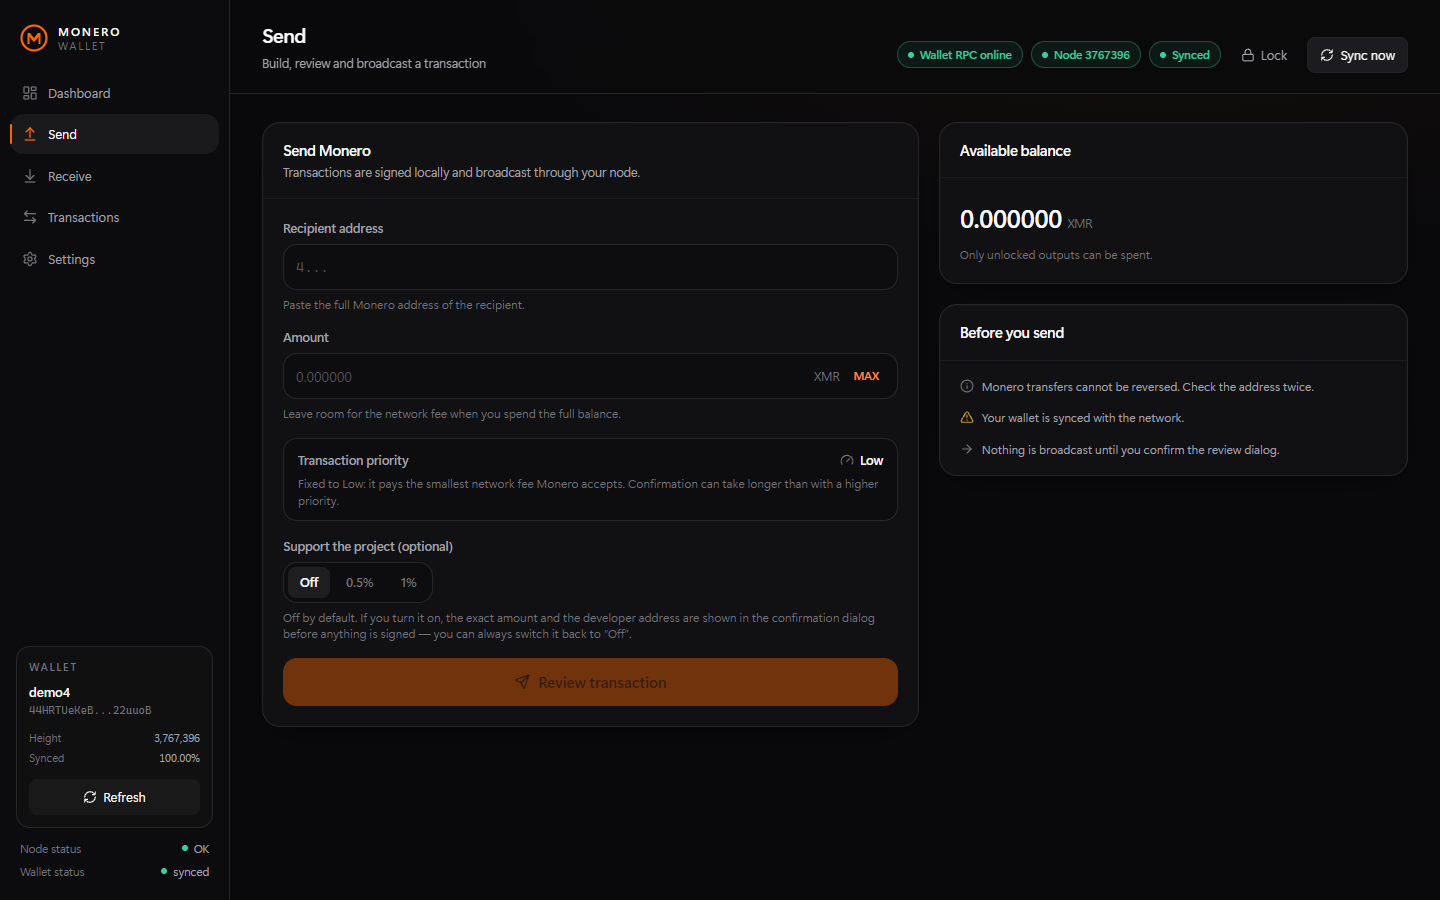
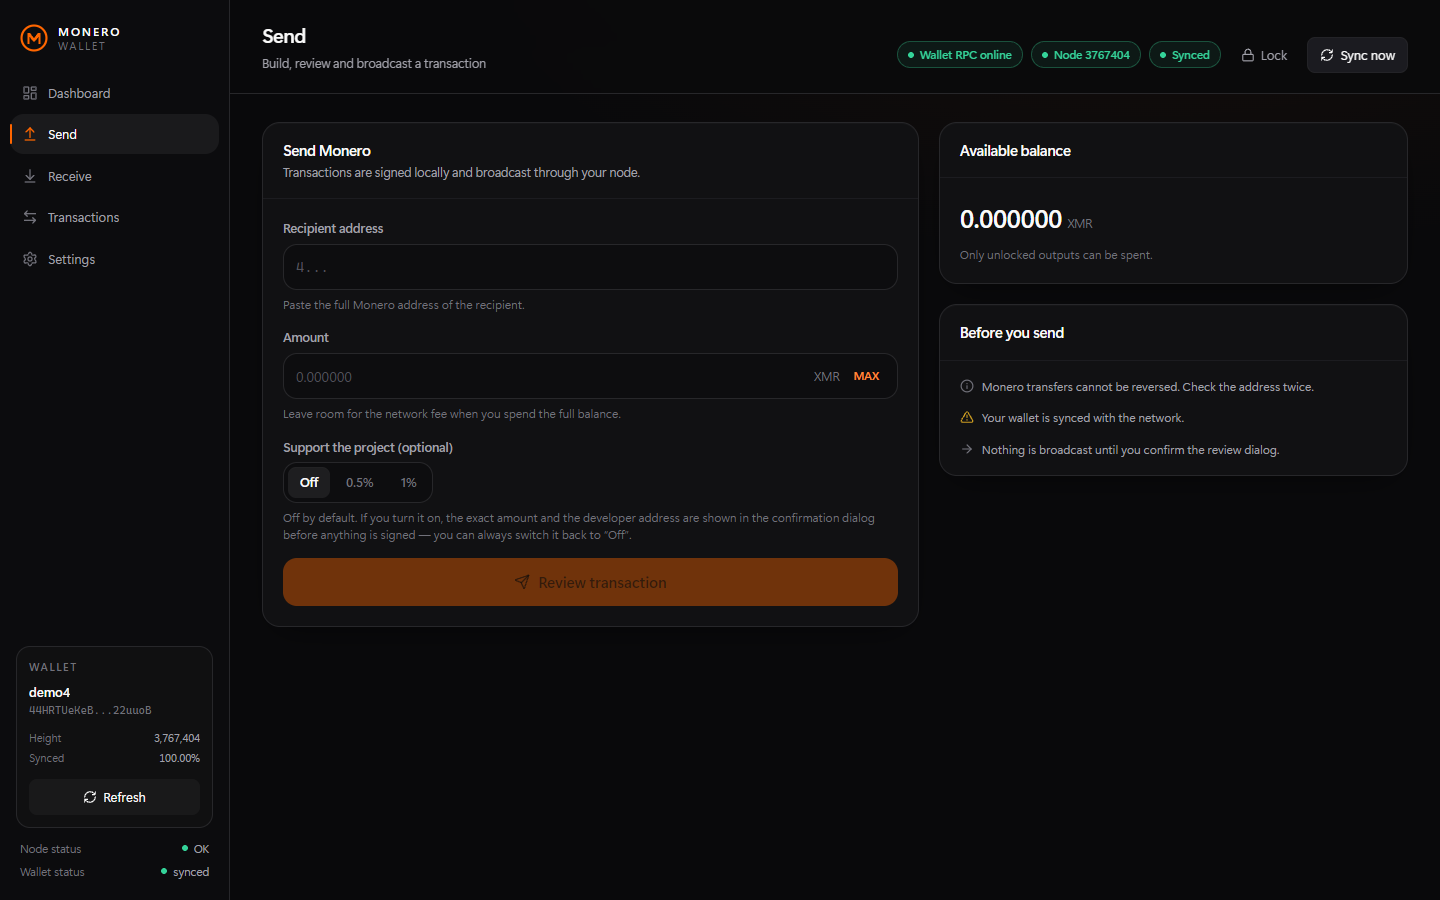
Remove the transaction priority control from the send form

Changed region(s): [[0.1875, 0.4667, 0.625, 0.8089], [0.5938, 0.4978, 0.625, 0.5289]]

diff --git a/frontend/src/pages/Send.tsx b/frontend/src/pages/Send.tsx
@@ -1,4 +1,4 @@
-import { ArrowRight, CheckCircle2, Gauge, Info, Send as SendIcon, TriangleAlert } from 'lucide-react';
+import { ArrowRight, CheckCircle2, Info, Send as SendIcon, TriangleAlert } from 'lucide-react';
 import { useEffect, useState } from 'react';
 
 import { ApiError, api } from '../api/client';
@@ -11,13 +11,12 @@ import type { Route } from '../lib/hashRouter';
 import { useWallet } from '../state/wallet';
 
 /**
- * Network priority is fixed to "Low" (0): the cheapest fee. The selector was
- * removed on purpose - a single predictable value is easier to reason about than
- * four levels whose real cost only shows up after the fee is calculated. The API
- * still accepts 0-3, so integrations can opt into another level.
+ * Network priority is pinned to "Low" (0), the cheapest fee the daemon accepts, and
+ * the send form deliberately shows no control for it: four levels whose real cost
+ * only appears after the fee is calculated are a decision most people cannot judge.
+ * The API still accepts 0-3, so integrations can opt into another level.
  */
 const NETWORK_PRIORITY = 0;
-const PRIORITY_LABEL = 'Low';
 
 /** Optional support for the project: off by default, always shown in the review dialog. */
 const SUPPORT_OPTIONS = [
@@ -205,20 +204,6 @@ export function SendPage({ onNavigate }: { onNavigate: (route: Route) => void })
               hint="Leave room for the network fee when you spend the full balance."
             />
 
-            <div className="rounded-xl border border-line bg-surface-sunken px-3.5 py-3">
-              <div className="flex items-center justify-between gap-3">
-                <span className="text-[12.5px] font-medium text-ink-muted">Transaction priority</span>
-                <span className="inline-flex items-center gap-1.5 text-[12.5px] font-medium text-ink">
-                  <Gauge className="h-3.5 w-3.5 text-ink-dim" />
-                  {PRIORITY_LABEL}
-                </span>
-              </div>
-              <p className="mt-1.5 text-[12px] leading-snug text-ink-dim">
-                Fixed to {PRIORITY_LABEL}: it pays the smallest network fee Monero accepts. Confirmation can take
-                longer than with a higher priority.
-              </p>
-            </div>
-
             <div>
               <p className="mb-1.5 text-[12.5px] font-medium text-ink-muted">Support the project (optional)</p>
               <Segmented
@@ -335,7 +320,6 @@ export function SendPage({ onNavigate }: { onNavigate: (route: Route) => void })
                 />
               ) : null}
               <Recap label="Total" value={prepared.totalAtomic ? `${formatXmr(prepared.totalAtomic)} XMR` : '—'} emphasis />
-              <Recap label="Priority" value={PRIORITY_LABEL} />
             </div>
             {supportPercent > 0 && !prepared.support.enabled ? (
               <Alert tone="info">

diff --git a/README.ru.md b/README.ru.md
@@ -38,8 +38,8 @@
   блокировки, payment id и деталями транзакции.
 - **Двухфазная отправка** — транзакция сначала строится и подписывается локально (`do_not_relay`), вы видите
   **точную комиссию**, и только после подтверждения она рассылается (`relay_tx`).
-- **Фиксированный приоритет сети Low** — самый дешёвый вариант комиссии, который принимает Monero; выбора
-  приоритета в интерфейсе нет, чтобы не гадать, сколько он стоит.
+- **Никакого выбора приоритета** — все транзакции уходят с уровнем **Low**, самой дешёвой комиссией, которую
+  принимает Monero; в интерфейсе нет ни переключателя, ни подписи, чтобы не гадать, сколько стоит уровень.
 - **Субадреса** — создание с метками, переключение, копирование и QR-код для любого адреса.
 - **Необязательная поддержка проекта** — переключатель на странице отправки (по умолчанию «Off», варианты 0.5% и 1%). Если включить, в подтверждении показывается точная сумма поддержки и адрес получателя — до подписи транзакции. Адрес настраивается параметром `SUPPORT_ADDRESS`.
 - **Управление узлом** — статус демона, задержка, высота сети и переключение узла прямо в Settings.

diff --git a/README.md b/README.md
@@ -112,7 +112,7 @@ The design goal is simple: **the ergonomics of a modern app, the trust model of 
 
 - Recipient address validation through `validate_address` (mainnet only) before anything is built.
 - **Two-phase send:** the transaction is built and signed locally with `do_not_relay`, you see the **exact** network fee and the total, and only your explicit confirmation broadcasts it with `relay_tx`.
-- Network priority is fixed to **Low** — the cheapest fee the network accepts — so there is nothing to guess. A "MAX" helper respects locked balances.
+- **No fee-level control:** every transaction is sent at **Low**, the cheapest fee the network accepts, so there is nothing to guess and nothing to configure. A "MAX" helper respects locked balances.
 - **Optional support for the project** — off by default, with 0.5% / 1% presets. When it is on, the confirmation dialog lists the exact support amount and the address it goes to before anything is signed. The address is configurable with `SUPPORT_ADDRESS` (change it if you fork).
 - Clear, human-readable errors instead of raw RPC codes ("Not enough spendable balance", "Wallet RPC cannot reach the Monero daemon", …).
 

diff --git a/CHANGELOG.md b/CHANGELOG.md
@@ -9,9 +9,9 @@ project uses [Semantic Versioning](https://semver.org/spec/v2.0.0.html).
 
 ### Changed
 
-- Network priority is fixed to **Low** (the cheapest fee the network accepts) and the
-  priority selector is gone, so there is no level to guess. The API still accepts `priority`
-  `0`–`3` for integrations.
+- The send form no longer shows any transaction priority control: every transfer goes out at
+  **Low**, the cheapest fee the network accepts. The API still accepts `priority` `0`–`3` for
+  integrations.
 
 ### Added
 
